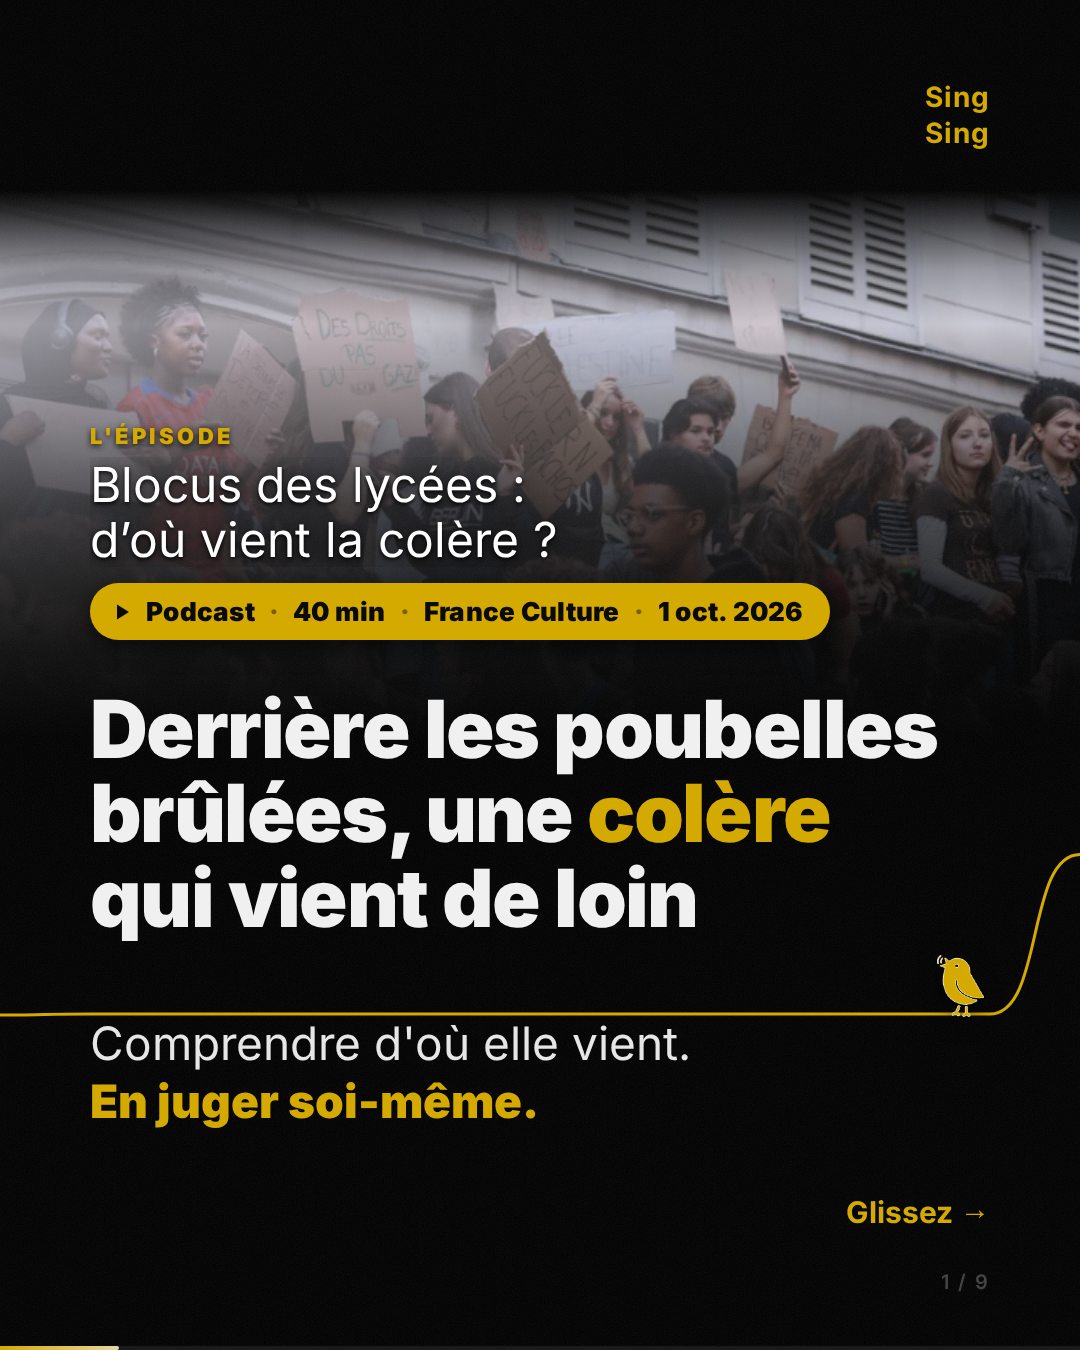
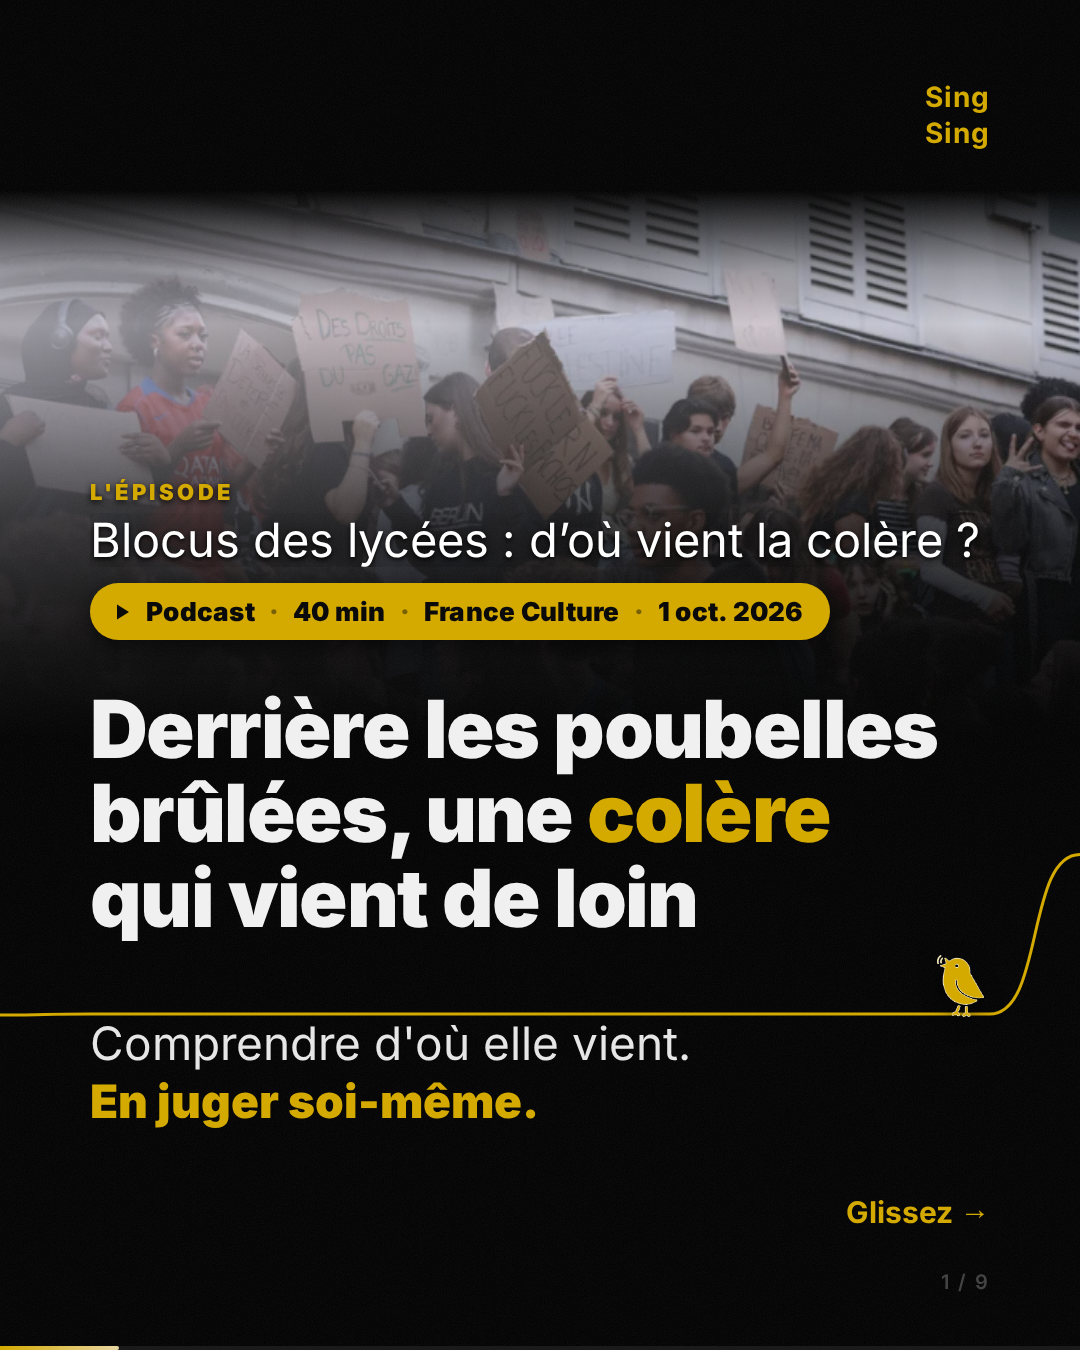
chore(samples): podcast_1 slide 1 — source title on one line

Changed region(s): [[0.0611, 0.3111, 0.7333, 0.4356], [0.7639, 0.3733, 0.9167, 0.4356]]

diff --git a/samples/podcasts/podcast_1/instagram_carousel_optimized/html/01_hook.html b/samples/podcasts/podcast_1/instagram_carousel_optimized/html/01_hook.html
@@ -448,9 +448,11 @@ body {
   align-items: flex-start; gap: 16px; }
 .src-label { font-size: 22px; font-weight: 800; letter-spacing: .16em; text-transform: uppercase; color: #d4aa00;
   text-shadow: 0 2px 6px rgba(0,0,0,.9); margin-bottom: -8px; }
-.src-title { max-width: 900px; font-size: 48px; font-weight: 400; line-height: 1.15; color: #fff; text-wrap: balance;
+/* one line: set as large as the column allows (48px down to 30px, fitted by the
+   script at the end of the page), then cut with an ellipsis */
+.src-title { max-width: 900px; font-size: 48px; font-weight: 400; line-height: 1.15; color: #fff;
   text-shadow: 0 2px 4px rgba(0,0,0,.9), 0 0 24px rgba(0,0,0,.85);
-  display: -webkit-box; -webkit-line-clamp: 2; -webkit-box-orient: vertical; overflow: hidden; }
+  white-space: nowrap; overflow: hidden; text-overflow: ellipsis; }
 .slide.bleed .cover-head { margin-top: auto; }
 /* — The title, then the promise that continues it. — */
 .cover-head { font-size: 85px; font-weight: 900; line-height: 1.06; letter-spacing: -0.02em; color: #f0f0f0; max-width: 900px; margin-top: 44px; text-wrap: balance; display: -webkit-box; -webkit-line-clamp: 4; -webkit-box-orient: vertical; overflow: hidden; }
@@ -472,7 +474,7 @@ body {
   <div class="company-name">Sing<br>Sing</div>
   
 
-  <div class="src-block"><span class="src-label">L'épisode</span><p class="src-title">Blocus des lycées&nbsp;: d’où vient la colère&nbsp;?</p><span class="src-pill"><svg viewBox="0 0 24 24"><path d="M7 4.5v15l12-7.5z"></path></svg>Podcast<span class="sep">·</span>40 min<span class="sep">·</span>France Culture<span class="sep">·</span>1 oct. 2026</span></div>
+  <div class="src-block"><span class="src-label">L'épisode</span><p class="src-title" style="font-size: 47px;">Blocus des lycées&nbsp;: d’où vient la colère&nbsp;?</p><span class="src-pill"><svg viewBox="0 0 24 24"><path d="M7 4.5v15l12-7.5z"></path></svg>Podcast<span class="sep">·</span>40 min<span class="sep">·</span>France Culture<span class="sep">·</span>1 oct. 2026</span></div>
   
   
 
@@ -485,5 +487,13 @@ body {
   <div class="slide-num">1 / 9</div>
   <div class="progress-track"><div class="progress-bar" style="width: 11%;"></div></div>
 <svg class="ss-wire" viewBox="0 0 1080 1350" style="position:absolute;inset:0;width:1080px;height:1350px;pointer-events:none;z-index:3"><path d="M0 1015.0 C 54.0 1015.0, 36.0 1014.0, 90 1014.0 L 990 1014.0 C 1044.0 1014.0, 1026.0 854.5, 1080 854.5" fill="none" stroke="#d4aa00" stroke-width="3" stroke-linecap="round"></path></svg></div>
+<script>
+(function () {
+  const t = document.querySelector('.src-title');
+  if (!t) return;
+  let size = 48;
+  while (t.scrollWidth > t.clientWidth && size > 30) { size -= 1; t.style.fontSize = size + 'px'; }
+})();
+</script>
 
 </body></html>
